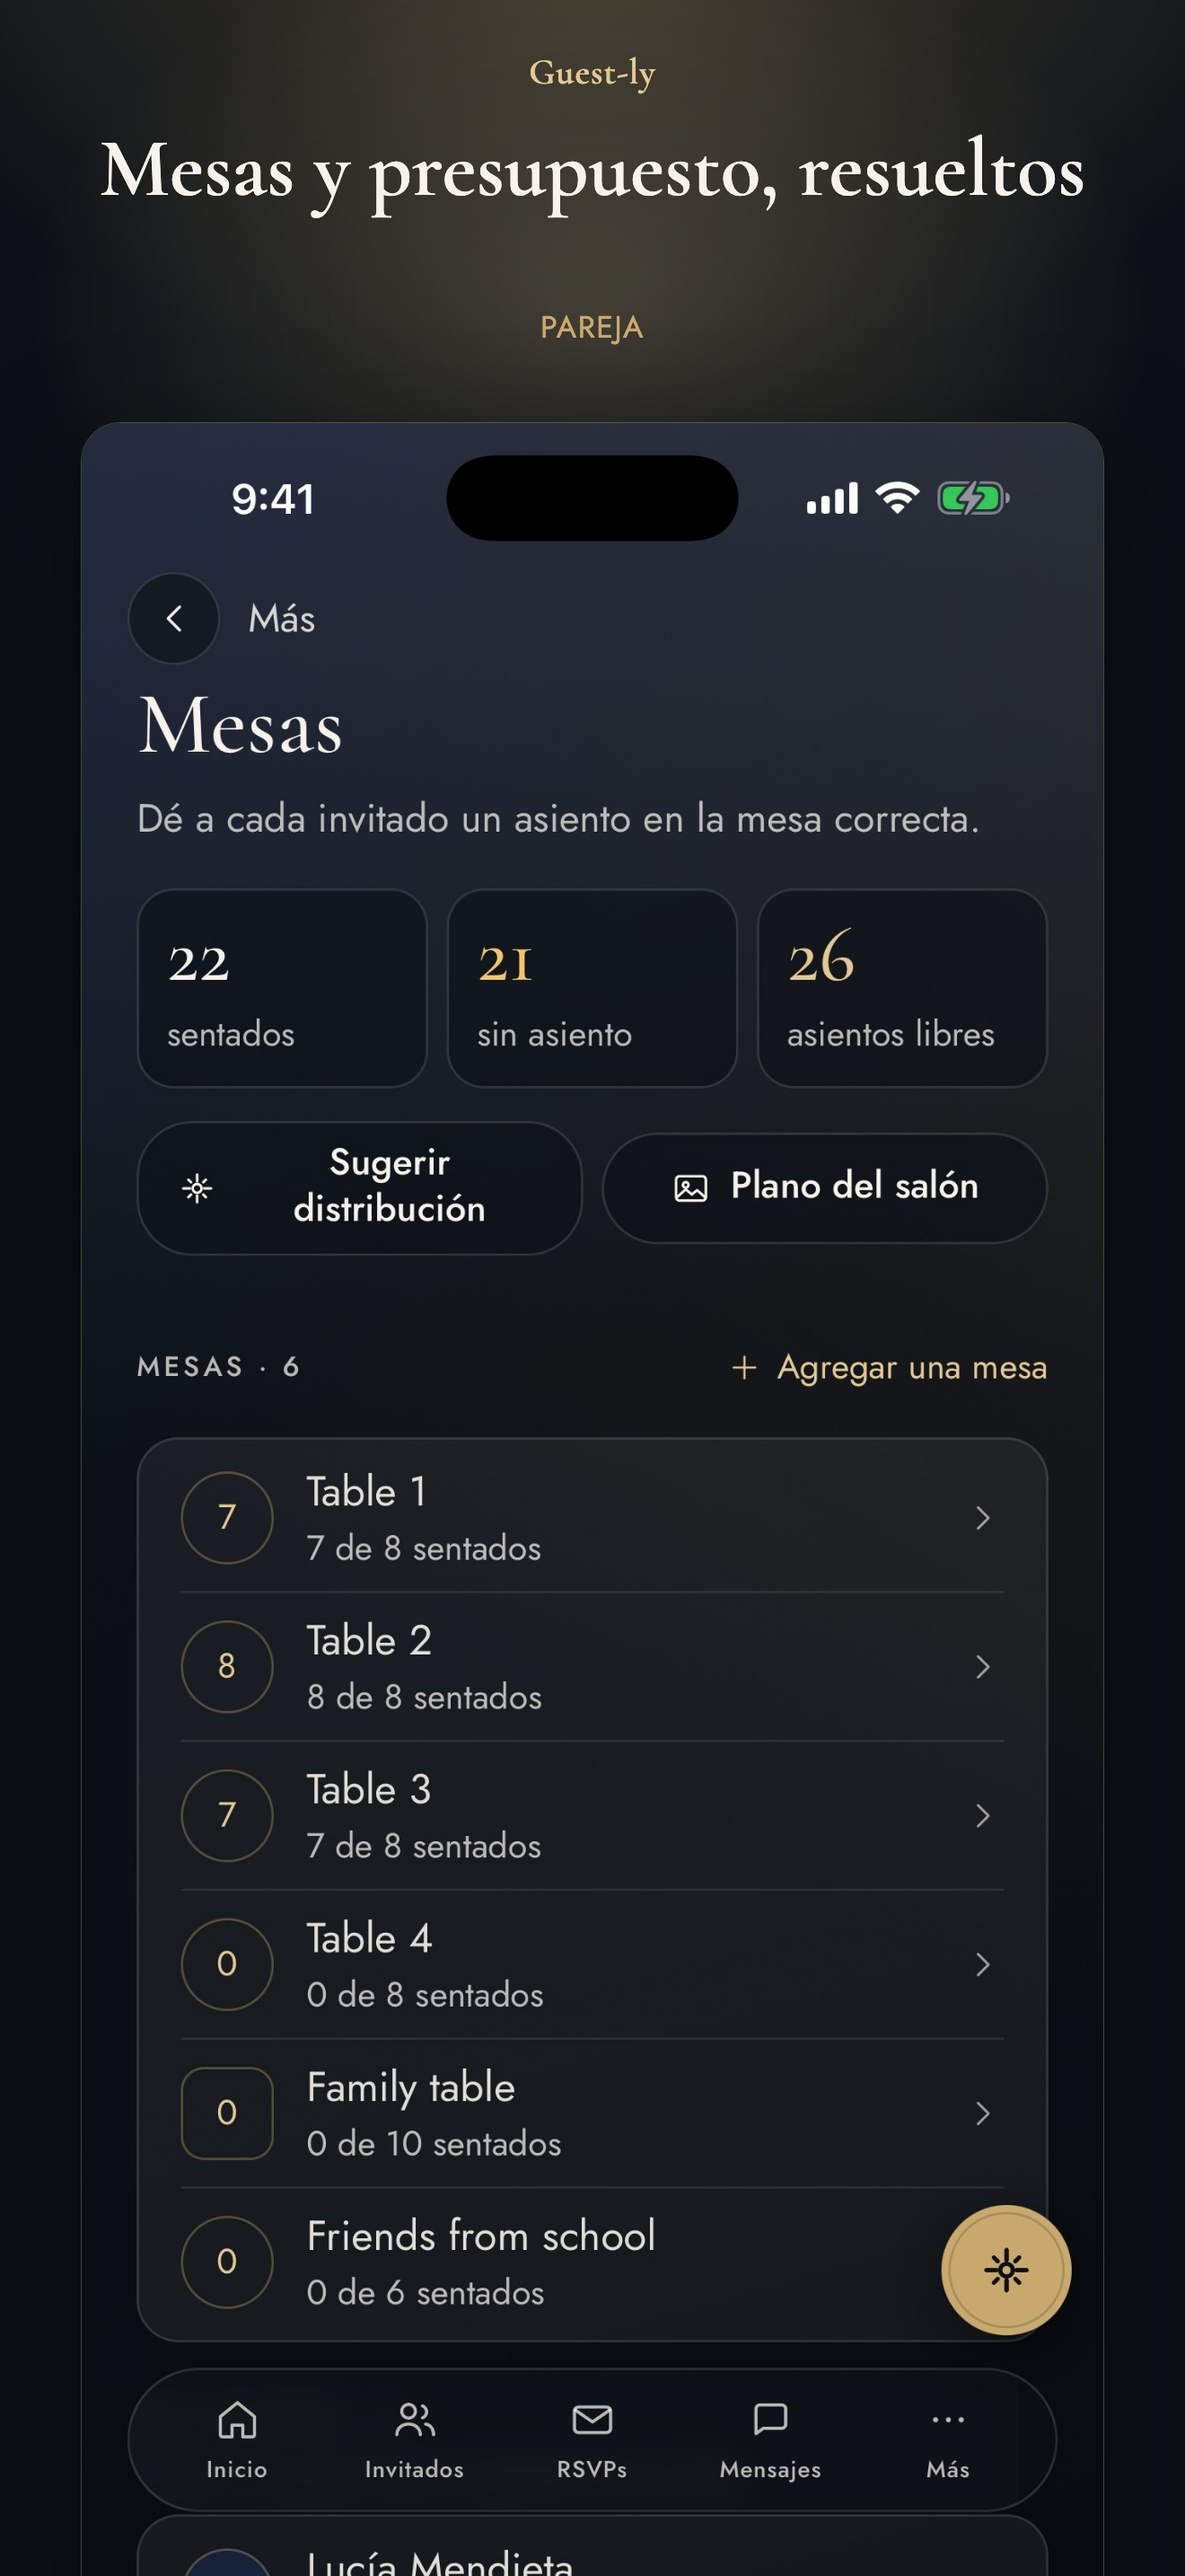
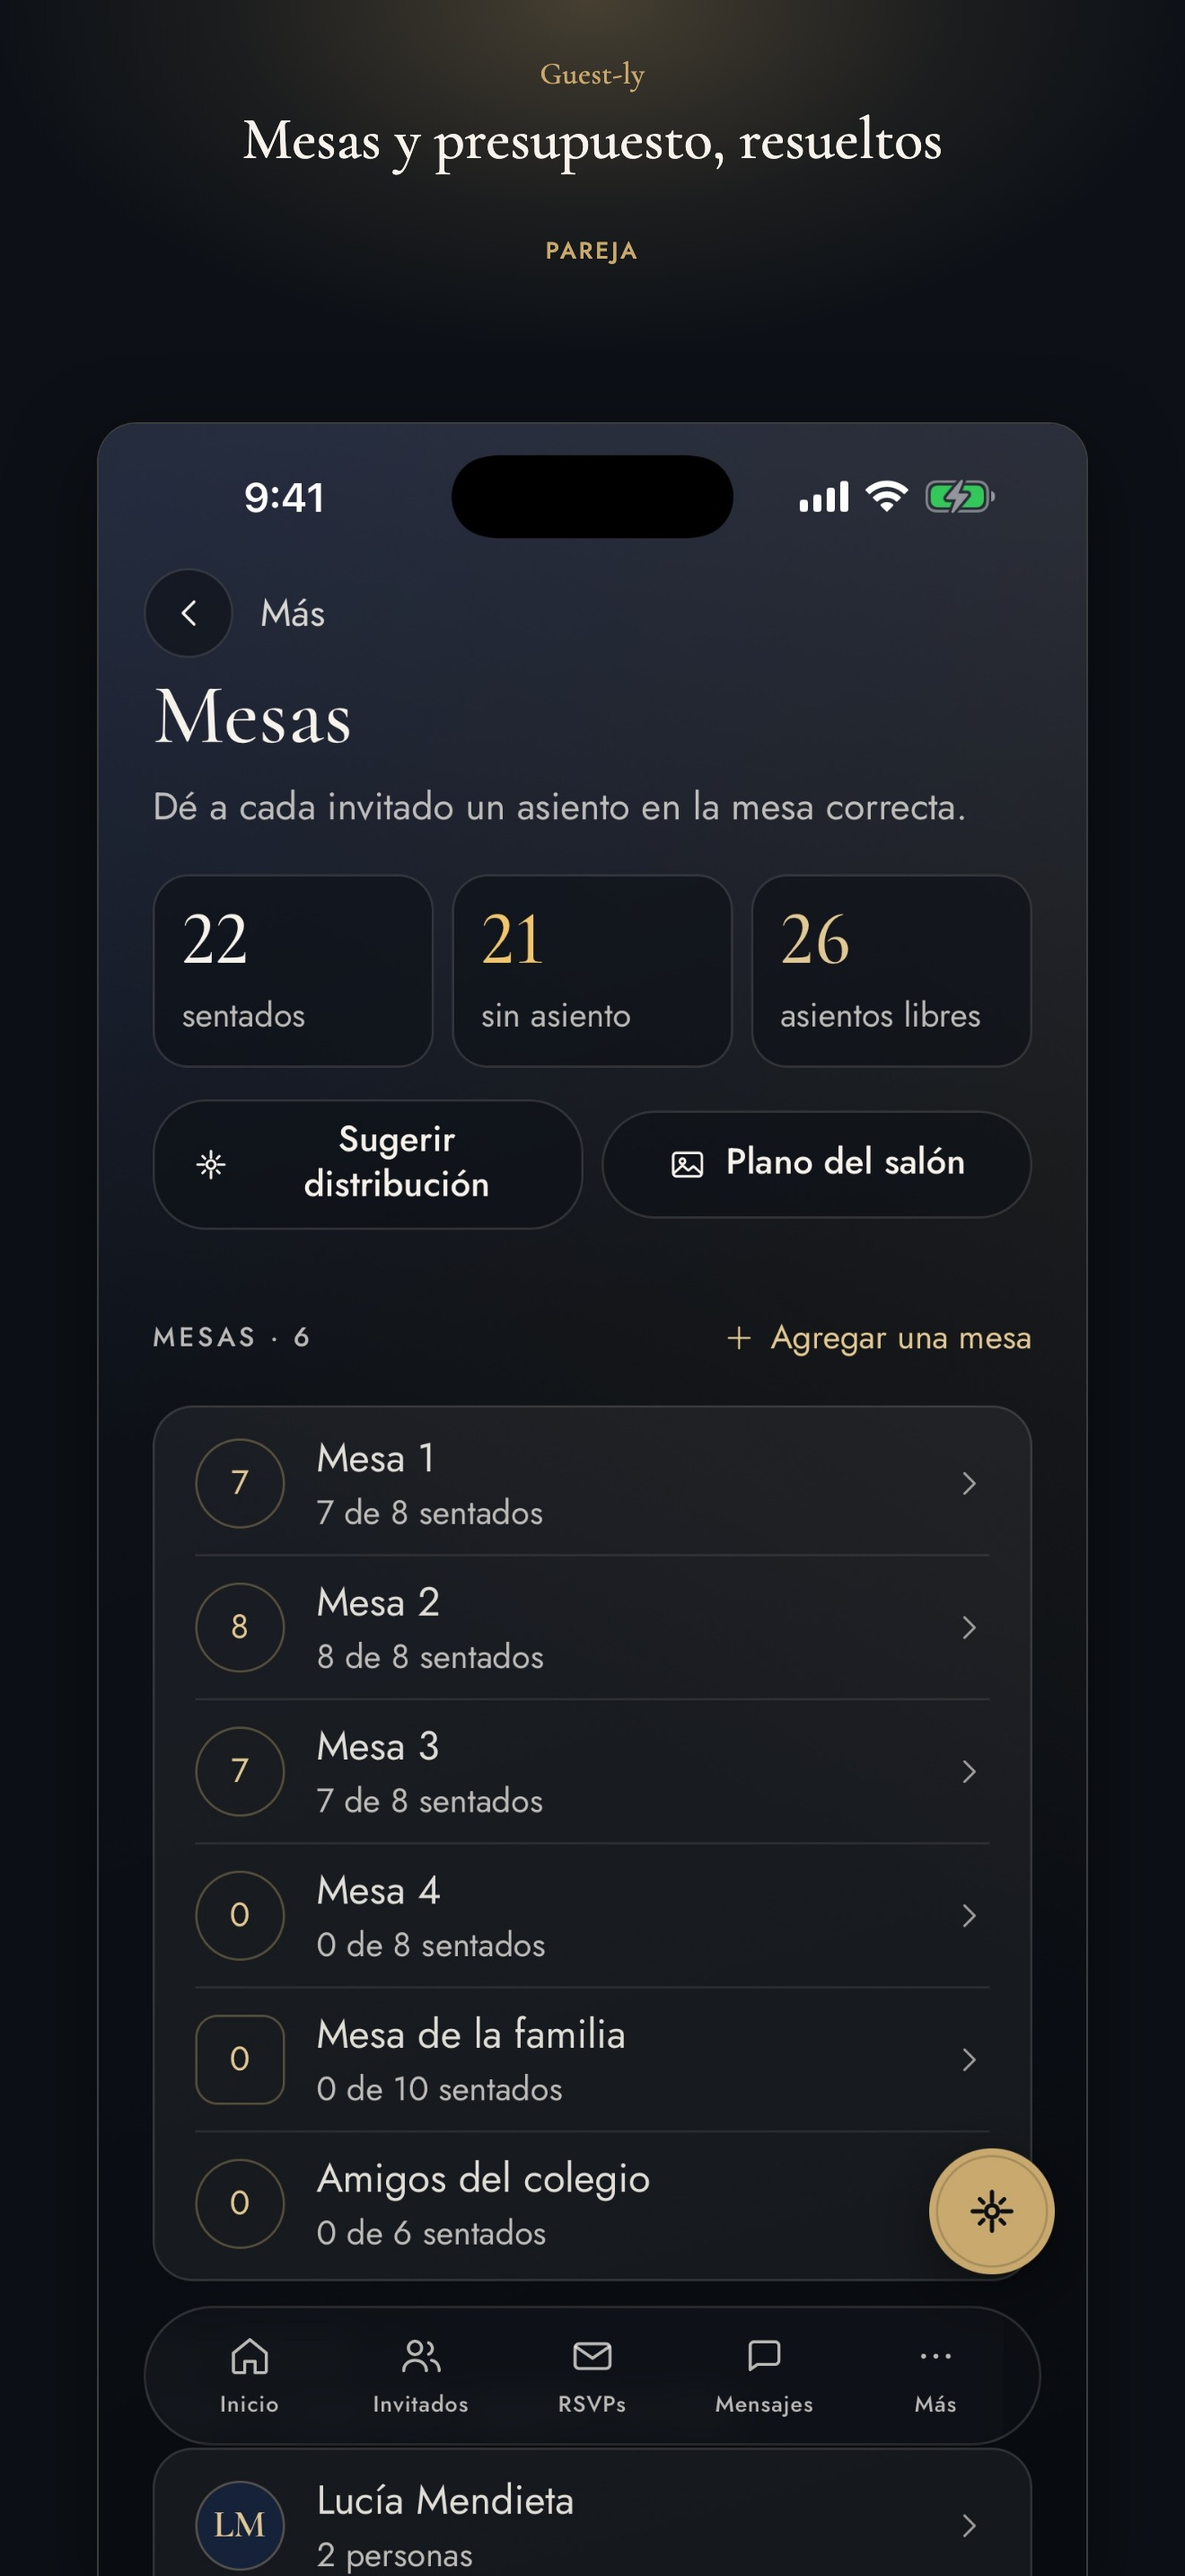
mobile: recapture es-MX store screenshots in Spanish (D-047), fix stat tile "1" (D-048)
Fixer round 2, reviewer findings 1 and 3 on mobile/part9-audit.

D-047 (blocker): the delivered store/screenshots/ios-6.9/es-MX/ set mixed English
into a Spanish listing on screens 03, 05, 07, 08. Root cause confirmed against
.part9/seed-ledger.json (lang: "en"): the store step never ran
seed-demo.mjs --lang es before capturing. Ran it for real (retitles in place,
ids unchanged, confirmed by --verify), cut a new sim-release simulator build
(96c482c9..., this round's explicit exception to the build budget, no
production build and no submit) so the binary also carries every
fixer-round-1 fix, and recaptured 05, 07 and 08 live off the reseeded tenant:
task titles, table names and the run sheet review note are now Spanish.
Rebuilt their framed/ twins with a small local Playwright compositor
(.part9/frame-build/, gitignored) matching the existing frame's geometry,
fonts and captions.

03 is explicitly NOT fixed here: its English ceremony and reception notes
come from WeddingFacts.itinerary[].notes, a plain string with no bilingual
field at all, owned by the portal repo (guestly-mobile-api /
guestly-portal), outside this directory. Documented in PART9-AUDIT.md D-047
with the exact fix the lead needs.

D-048 (minor): CormorantGaramond's old-style "1" reads as a bare capital I
with nothing to disambiguate it (confirmed with fontTools against the
font's own GSUB table). StatTile's value text now forces lining figures
[…]

diff --git a/guestly-mobile/docs/PART9-AUDIT.md b/guestly-mobile/docs/PART9-AUDIT.md
@@ -210,7 +210,11 @@ Contrast (computed, WCAG): ivory 17.1, ivory90 13.9, ivory70 12.7, ivory55 9.6, 
 | D-045 | P2 | visual | G05 concierge (guest), likely S03/S04 assistant too (same rendering pattern, not verified there) | found on L (sim-release) and confirmed again on M (dev client); EN; not tried in ES | The AI reply is drawn as plain text (`<T>{item.text}</T>`), so any markdown the model returns shows as literal characters instead of formatting: asking Dress code answers "The dress code for the reception at Campos de Solana is **Formal**." with the two asterisks printed on screen. This is the first time in the whole wave a real AI reply was captured (earlier steps avoided asking a real question, plan C2), so it was never seen before. | `docs/part9/evidence/D-045.jpg` | `src/app/guest/concierge.tsx` `Bubble` (renders `text` directly); the same plain-text pattern is in `src/app/assistant.tsx:434` (coordinator bubble), not confirmed broken there since no real reply was captured on that screen this step | Add a small markdown-lite renderer (bold, bullets) shared by both chat screens; needs a design decision on which subset of markdown to support and a pass over both screens, out of scope for a one-line store-step fix. | OPEN for the lead / a future step. Not fixed here: bigger than the store step's brief, touches at least two screens, and the couple/planner assistant instance was not even confirmed (would need its own real reply, which was avoided everywhere else in this wave for the reasons in plan C2). |
 | D-046 | P2 | visual | couple home (today's briefing), planner home (needs you) | found on L (sim-release) capturing the ES store screenshot; reproduced on the dev client after the fix | `Row`'s default `alignItems` is `center` (`src/ui/index.tsx:205`), so the briefing dot and chevron center on the WHOLE row instead of sitting by the first line. Invisible while the sentence wraps to two lines (the common case in EN); once it wraps to three (the ES sentences are longer, seen on the widest phone, L, 1320 pt), the dot visibly floats down to the second line, away from the text it marks. `couple/insights/index.tsx:170-173` already uses `align="flex-start"` plus a `paddingTop: 8` wrapper around its own `Gem` for exactly this reason; these two rows were the only ones that still used the Row default. | `docs/part9/evidence/D-046.jpg` | `src/app/couple/index.tsx` (briefing row), `src/app/planner/index.tsx` (needs-you row) | `align="flex-start"` on the Row, `Gem` wrapped in a `View` with `paddingTop: 8`, matching `couple/insights/index.tsx`. | FIXED, verified on the DEV CLIENT (Metro, current commit) in ES on both screens: the dot now sits by the first line at two AND three wrapped lines. NOT verified on a new sim-release binary, same reason as D-044 (build budget). The two ES store screenshots (couple home, planner requests home) were captured from the existing sim-release binary and still show the pre-fix, slightly low dot; the fix reaches the next production build. Shot: `docs/part9/evidence/D-046-fixed.jpg`. |
 
-Counts: P0: 4, P1: 29, P2: 12, P3: 1. Total 46 (43 from the audit and fix steps, plus D-044 to D-046 found in the store step).
+| D-047 | P1 | store-compliance | 03-guest-schedule, 05-couple-home, 07-couple-seating, 08-planner-requests (es-MX store set) | found by an independent reviewer reading the delivered `store/screenshots/ios-6.9/es-MX/` JPEGs, not any automated gate (they grep source text, never screenshot pixels); confirmed by reading all 8 es-MX raw and framed images myself | The es-MX App Store screenshots mixed English into a listing that must be fully Spanish. 05 and 08: the seeded task/board titles ("Book the guest shuttle, Send the last invitations.", "Review the seating draft" / "Tables 1 to 3 are done...") sat in English inside Spanish sentences and cards. 07: all six table names ("Table 1"..."Family table", "Friends from school") were English even though `scripts/part9/seed-demo.mjs` defines Spanish names for every one of them. Root cause: the store step (Sep 20) captured the es-MX set against the demo tenant's English end state (`.part9/seed-ledger.json` `lang: "en"`, the wave's own declared default, plan 13.8) without first running `seed-demo.mjs --lang es`, contradicting the plan's own instruction (10.1, "seeded content in the matching language"). 03 has a SEPARATE, unrelated defect that re-running the seed script cannot fix: the ceremony and reception notes ("Arrive by 3:40. Seats are not assigned.", the shuttle paragraph, the dress note) come from the tenant's `WeddingFacts.itinerary[].notes`, a plain `string \| null` (`guestly-mobile-api/src/lib/mobile/guest-views.ts:32,84`) with no per-language field at all, edited only through the portal's Brain/logistics editor, not through `seed-demo.mjs` and not through any mobile-API write path this app or its scripts touch. The event TITLES ("Ceremonia"/"Recepción") are already correctly localized (`e.title[lang]`), which is why only the notes are wrong. | `store/screenshots/ios-6.9/es-MX/{raw,framed}/03,05,07,08-*.jpg` (before fix, superseded) | `scripts/part9/seed-demo.mjs` (ledger lang, not a code bug); `guestly-mobile-api/src/lib/mobile/guest-views.ts:32,84` (03's real cause, out of this repo) | Run `seed-demo.mjs --lang es` against demo-review before any es-MX capture; recapture 05, 07, 08 (and re-check 02, 04, 06, which read clean). For 03: give `WeddingFacts.itinerary[].notes` (and `dress_code`) a bilingual shape, or have the lead retype the demo tenant's itinerary notes in Spanish through the portal Brain editor; both are portal-repo changes, out of `guestly-mobile`'s reach. | 05, 07, 08 FIXED: ran `node scripts/part9/seed-demo.mjs --lang es` against demo-review (retitles in place, ids unchanged, confirmed by the ledger's `lang` field and by `--verify` reporting every seeded row "not in English"); cut a new `sim-release` EAS build (`96c482c9-a504-4c62-9047-6647207687af`, commit `3578f51`, the wave's explicit simulator-profile-builds-allowed exception, no production build and no submit run) so the binary also carries every fixer-round-1 fix; installed on L; recaptured all three raw screenshots live off the app talking to the real API and rebuilt their framed twins with a small local Playwright compositor (`.part9/frame-build/`, gitignored, not committed, same technique the store step used) matching the existing frame's geometry, fonts and captions. Read every new image myself: task titles, table names and the run sheet review note are now Spanish throughout; 02, 04, 06 re-checked and were already correct (not seed-demo.mjs content). 03 NOT fixed: left byte-identical, since nothing in this branch's reach changes its content; the English notes are a cross-repo, cross-team defect, recorded above and in `BUILD-LOG-mobile.md` step 6 for the lead. Commit `3578f51` (StatTile fix, see D-046-style note below) plus the screenshot commit for this row. |
+
+| D-048 | P2 | visual | any `StatTile` with a single-digit value (seen on 05-couple-home, "le necesitan") | found by an independent reviewer reading the es-MX store screenshots; reproduced by reading the font's own OpenType tables | `StatTile`'s value text uses the display serif (`CormorantGaramond_500Medium`) at its default, old-style ("text") figures. The font substitutes real oldstyle glyphs for every digit (confirmed with `fontTools`: the family ships both `onum` and `lnum` GSUB features, oldstyle is the default), and its oldstyle "1" is a bare ascender with no serif or crossbar, pixel-for-pixel the same shape as a capital I. Multi-digit values ("43", "181", "26%") stay legible because neighboring digits give scale and context; a lone "1" does not, and the store screenshot read as "I le necesitan". | `store/screenshots/ios-6.9/es-MX/{raw,framed}/05-couple-home.jpg` (before fix, superseded) | `src/ui/index.tsx` `StatTile` (the `<T v="title34">` wrapping `value`) | Force lining (not oldstyle) figures on the value text only, via `fontVariant: ["lining-nums"]`; the font's own `lnum` GSUB feature supports it, so every digit becomes cap-height and unambiguous while every other use of the display serif elsewhere in the app is untouched. | FIXED. `StatTile`'s value `<T>` now carries `style={{ fontVariant: ["lining-nums"] }}`. Verified on-device on the sim-release binary built for D-047 (L, couple home, ES): the "le necesitan" stat now reads a clear lining "1", and "43"/"26%" are unchanged. `npx tsc --noEmit` clean. Commit `3578f51`. |
+
+Counts: P0: 4, P1: 30, P2: 13, P3: 1. Total 48 (43 from the audit and fix steps, D-044 to D-046 from the store step, D-047 and D-048 from fixer round 2).
 
 
 ## 5. Hypotheses from the plan
@@ -299,6 +303,7 @@ Two `sim-release` cloud builds ran in this step, the second and third of the wav
    - Not repeated a second time against this final binary: the full 27-screen Dynamic Type walk and the full six-width web rig (both already ran once against fixed source after the first round of kit commits, described under D-031 and D-027; this second build only adds the two very-last commits, which touch neither typography nor the web build).
 3. Left installed at the end of this step: S runs the SECOND `sim-release` build (couple session, ES, dark). L, M, T, P were not reinstalled with the newer binary; L and T still hold the FIRST `sim-release` build from the `R1` walk, M and P were not touched this session.
 4. Store-step screenshots (plan 10.1) should be captured from the SECOND `sim-release` build (`8eae524e...`), the only one with every fix commit of this step.
+5. **Third `sim-release`** (`96c482c9-a504-4c62-9047-6647207687af`, queued 2026-09-20 16:30 CDT, finished 16:40, embeds commit `3578f51`, fixer round 2), cut under this round's explicit exception to the three-build budget ("Simulator-profile EAS builds are allowed"). Carries every commit the second build was missing: D-044 (concierge timeout), D-045 is still open by design, D-046 (briefing dot), the round-1 fixer's masked feed URL, ES greeting agreement and `review_notes_es` fixes, and this round's D-048 (`StatTile` lining figures). Downloaded, installed on L only (`xcrun simctl install`, `.tar.gz` and the extracted `.app` both deleted after use, per this round's own note below), used solely to recapture the D-047 es-MX raw screenshots and to visually confirm D-048's "1" fix on a real device, not for a fresh full walk. `sim.sh teardown` run at the end of this round.
 
 ## 10. Store step (plan section 10)
 
